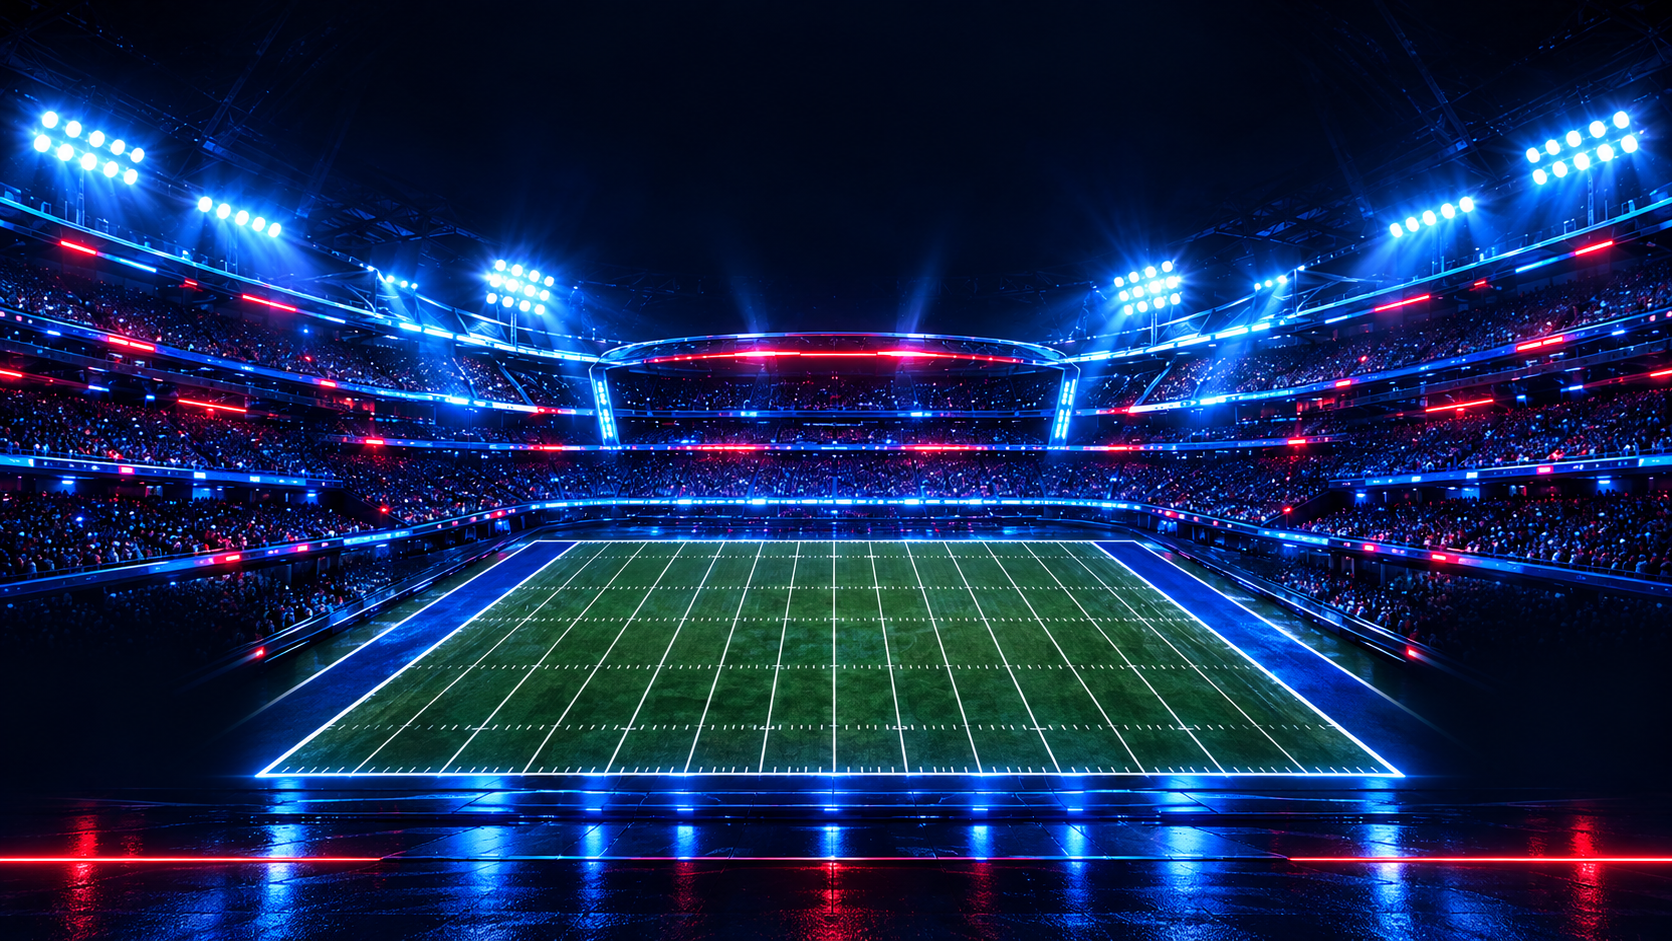
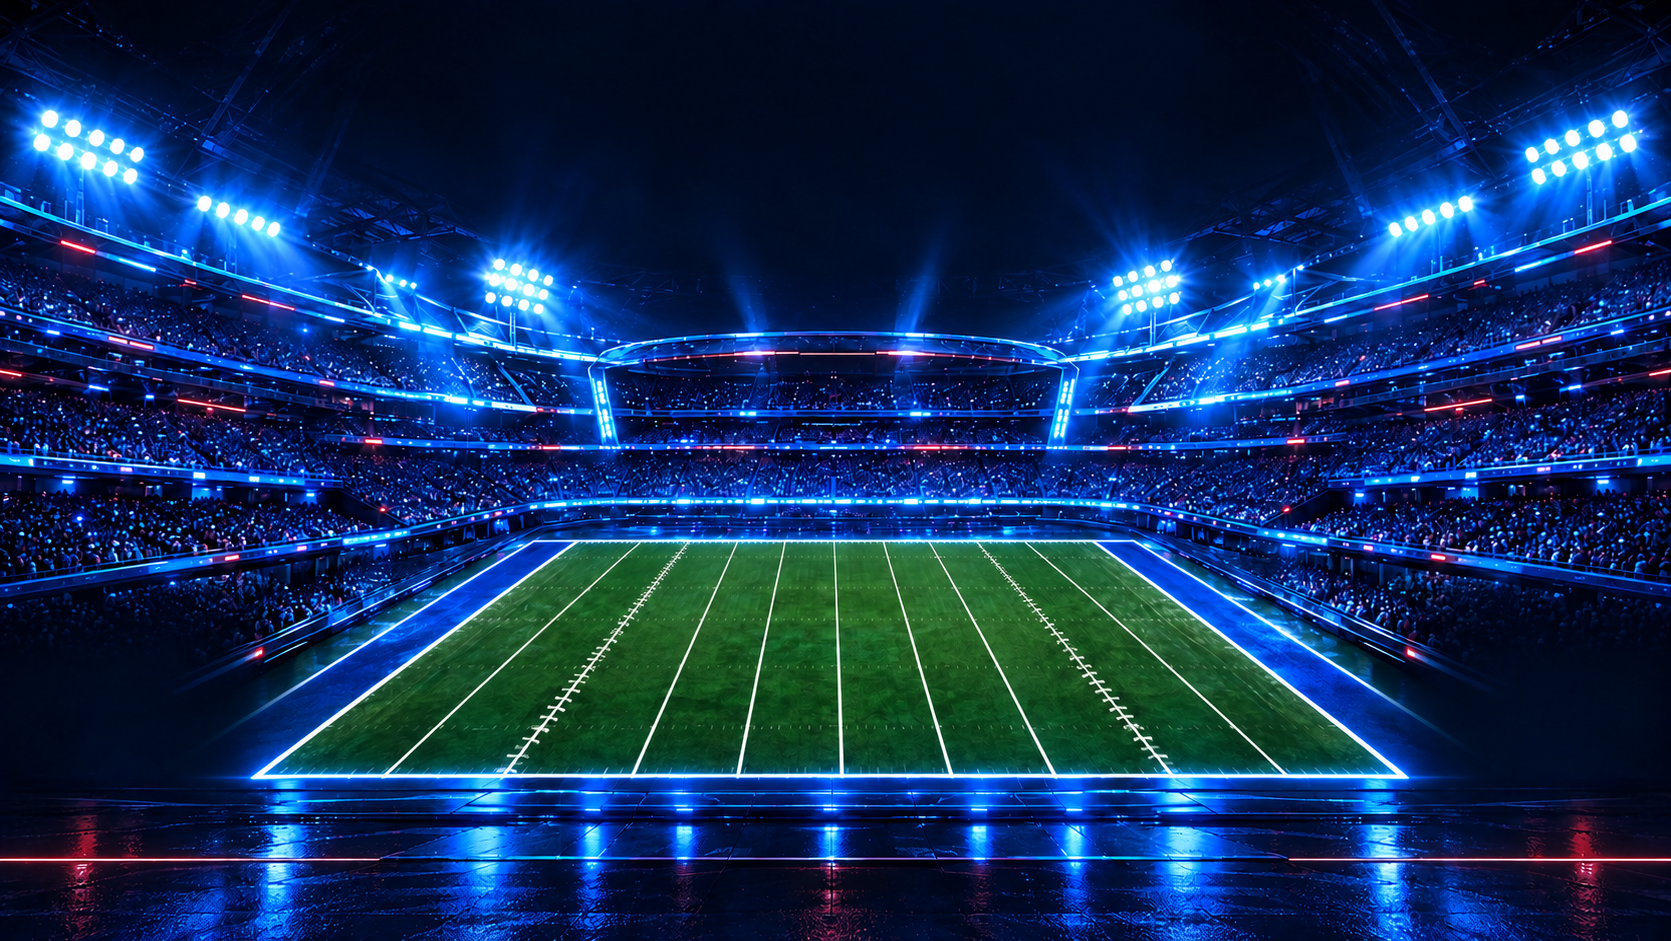
Refine stadium hash marks, lighting, and painted midfield branding

diff --git a/src/services/nflSimulationGraphic.ts b/src/services/nflSimulationGraphic.ts
@@ -125,22 +125,26 @@ export async function renderSimulationGraphic(scenario: SimulationScenario, kick
   });
   if (!portrait) {
     ctx.drawImage(stadium!, 0, 0, 1600, 1000);
-    const pulse = (x: number, y: number, size: number) => {
-      ctx.save(); ctx.shadowColor = red; ctx.shadowBlur = 22;
-      ctx.strokeStyle = '#ff3655'; ctx.lineWidth = 3;
-      ctx.beginPath(); ctx.moveTo(x - size, y); ctx.lineTo(x - 22, y);
-      ctx.lineTo(x - 12, y - 15); ctx.lineTo(x - 2, y + 20);
-      ctx.lineTo(x + 8, y - 48); ctx.lineTo(x + 18, y + 30);
-      ctx.lineTo(x + 28, y - 9); ctx.lineTo(x + 40, y); ctx.lineTo(x + size, y);
-      ctx.stroke(); ctx.restore();
-    };
-    pulse(335, 75, 95); pulse(1265, 75, 95);
     const midfield = scenario.home.abbr === 'NYG' ? 'NY' : teamMarkAbbr(scenario.home.abbr);
     ctx.save();
-    ctx.beginPath(); ctx.ellipse(800, 690, 48, 48, 0, 0, Math.PI * 2);
-    ctx.fillStyle = '#081526'; ctx.fill(); ctx.strokeStyle = homeColor; ctx.lineWidth = 5; ctx.stroke();
-    ctx.font = '700 32px Oswald'; ctx.fillStyle = scenario.home.abbr === 'NYG' ? '#145cff' : homeColor;
-    ctx.fillText(midfield, 800 - ctx.measureText(midfield).width / 2, 702); ctx.restore();
+    // A circular turf marking appears foreshortened in the stadium perspective.
+    ctx.translate(0, 310.5);
+    ctx.scale(1, .55);
+    const centerY = 690;
+    ctx.globalAlpha = .8;
+    ctx.globalCompositeOperation = 'source-over';
+    ctx.beginPath(); ctx.ellipse(800, centerY, 65, 65, 0, 0, Math.PI * 2);
+    ctx.strokeStyle = '#e9eee4'; ctx.lineWidth = 3; ctx.stroke();
+    ctx.font = '700 48px Oswald'; ctx.fillStyle = scenario.home.abbr === 'NYG' ? '#145cff' : homeColor;
+    ctx.fillText(midfield, 800 - ctx.measureText(midfield).width / 2, centerY + 17);
+    ctx.clip();
+    ctx.globalAlpha = .18;
+    ctx.strokeStyle = '#245745'; ctx.lineWidth = 1;
+    for (let blade = 0; blade < 70; blade++) {
+      const x = 735 + blade * 2;
+      ctx.beginPath(); ctx.moveTo(x, centerY - 65); ctx.lineTo(x + 5, centerY + 65); ctx.stroke();
+    }
+    ctx.restore();
     beam(0, 925, 550, red, 22); beam(1050, 925, 1600, '#29aaff', 22);
   }
   ctx.drawImage(logo, 25, 2, 175, 175 * logo.naturalHeight / logo.naturalWidth);
@@ -153,7 +157,6 @@ export async function renderSimulationGraphic(scenario: SimulationScenario, kick
   ctx.font = '700 20px "DM Sans"';
   const subtitle = 'S I M U L A T I O N   P R E V I E W';
   text(subtitle, (1600 - ctx.measureText(subtitle).width) / 2, 123, 20, 600, muted);
-  beam(210, 75, 520, red); beam(1070, 75, 1550, red);
   const date = new Intl.DateTimeFormat('en-US', { timeZone: 'America/New_York', month: 'short', day: 'numeric',
     year: 'numeric', hour: 'numeric', minute: '2-digit' }).format(new Date(kickoff));
   panel(40, 171, 1520, 145, awayColor);

diff --git a/README.md b/README.md
@@ -2,7 +2,7 @@
 
 Mobile Angle posts use tighter spacing and 20px headlines while retaining 13px body text and unchanged button targets. Notification settings retain the confirmed choice when checks fail; stale checks cannot overwrite preference writes. Device permissions and expired subscriptions still require device-level attention.
 
-Landscape pregame simulation downloads use detailed generated night-stadium artwork with electric-blue floodlights, red LED accents, packed stands and a reflective field, plus live-rendered abbreviation-only midfield marks. GameWire fonts, colors, simulation values and disclaimers remain; portrait and postgame exports retain their existing layouts.
+Landscape pregame simulation downloads use detailed generated night-stadium artwork with two interior hash-mark rows and subdued red lighting. Midfield abbreviation marks use foreshortening, transparent paint and turf texture instead of solid badges; header pulses are omitted. The artwork with electric-blue floodlights, red LED accents, packed stands and a reflective field, plus live-rendered abbreviation-only midfield marks. GameWire fonts, colors, simulation values and disclaimers remain; portrait and postgame exports retain their existing layouts.
 
 A responsive NFL hub with live scoreboards, weekly matchups, player statistics, and a favorite-centered feed called Your Locker Room.
 
